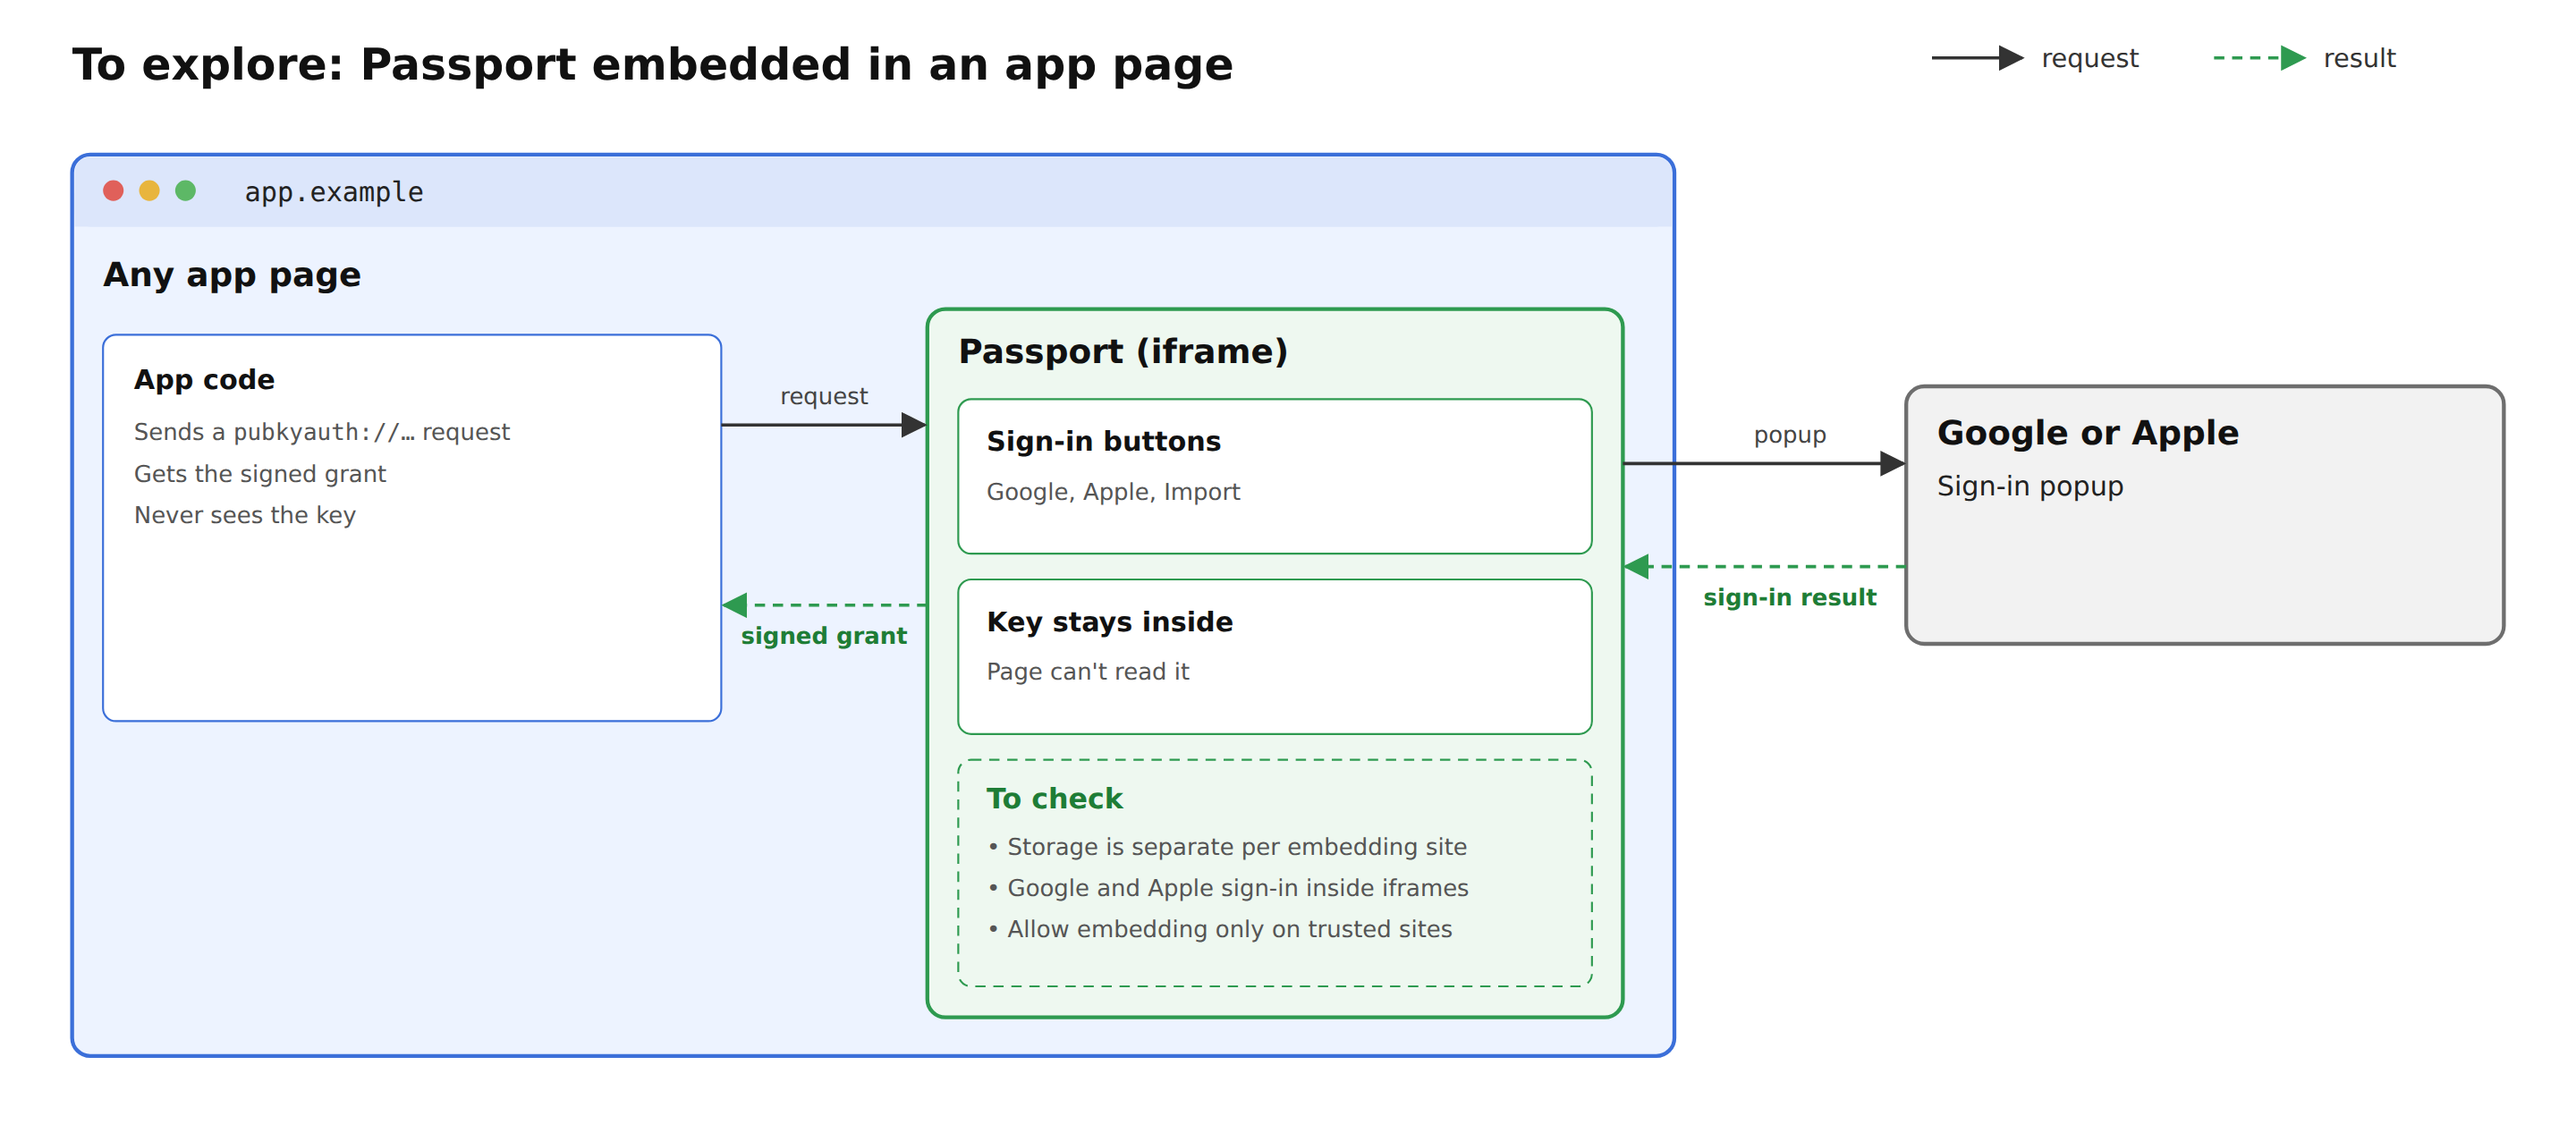
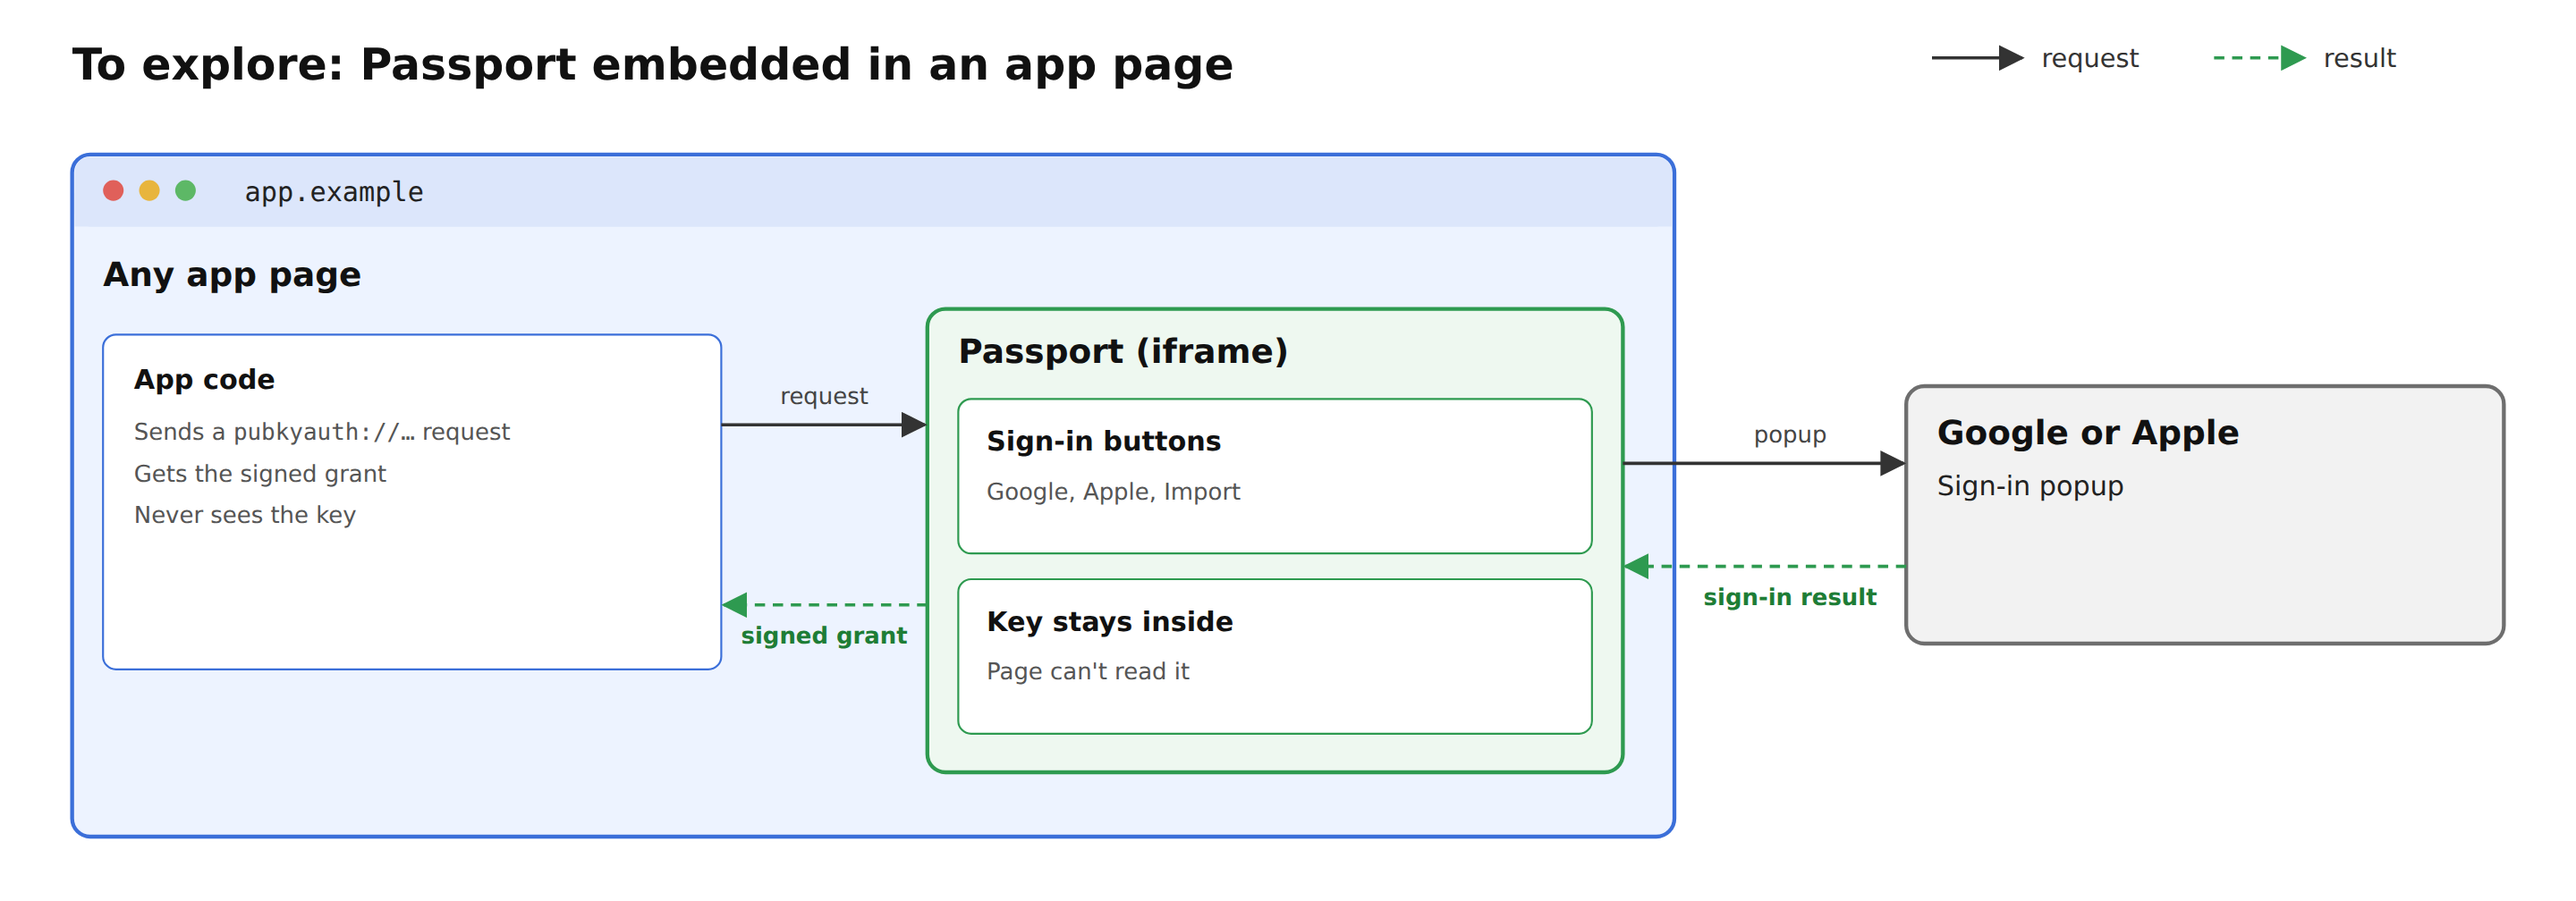
docs(rfc): drop untested and to-check notes from the diagrams

diff --git a/docs/rfc/0001-signers-and-accounts.md b/docs/rfc/0001-signers-and-accounts.md
@@ -112,7 +112,7 @@ Tradeoffs:
 
 - Every provider change must be built and maintained in both Accounts and Passport.
 - Two sites would handle private keys, which doubles what needs security review.
-- Both sites need the same Google client and Apple Services ID to reach the same backup. This isn't tested yet.
+- Both sites must use the same Google client and Apple Services ID to reach the same backup.
 - It isn't clear that Accounts needs its own sign-in.
 
 ![Accounts runs Google and Apple sign-in itself](images/0001-5-alternative-accounts-sign-in.png)
